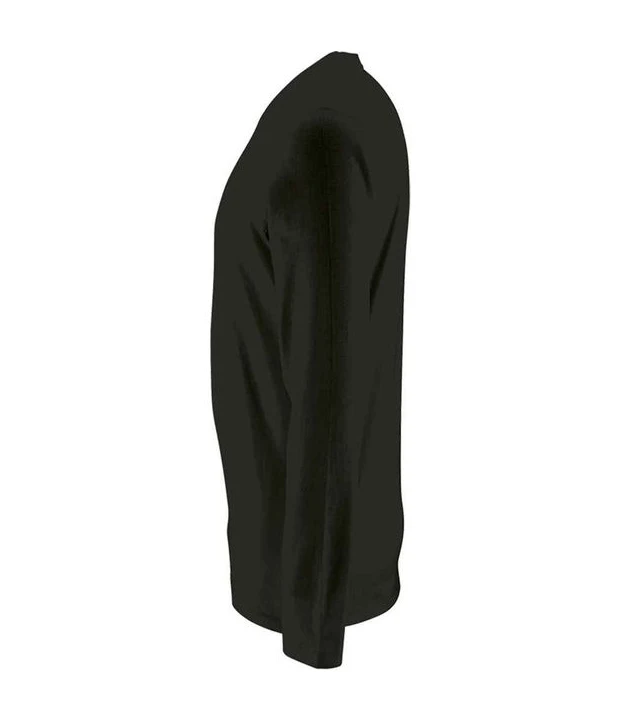
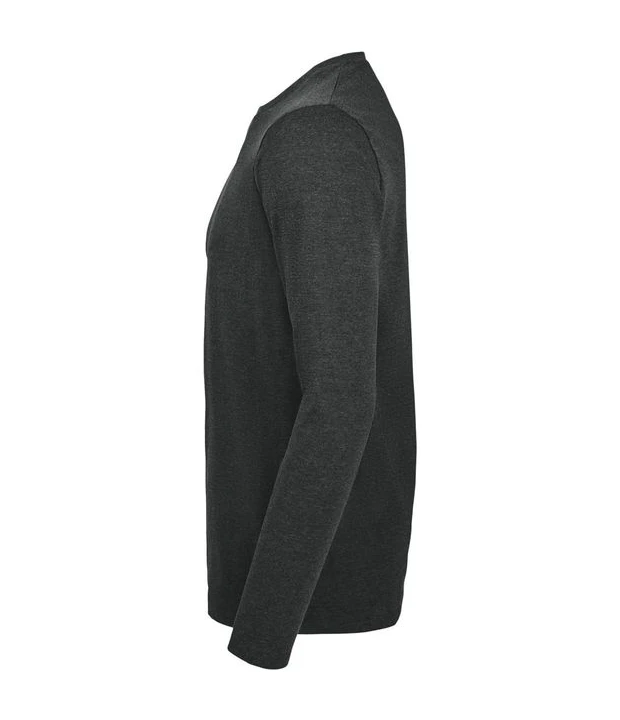
Zwei Fehlzuordnungen behoben, Ursache jeweils belegt
Stedman Clive Crew Neck: blue-midnight zeigte ST9600_BLO.jpg - BLO ist der
Stedman-Code fuer Black Opal. Blue Midnight hat den Code BLM. Beide Farben
kommen jetzt aus der offiziellen Stedman-Mediathek und sind nachweislich
verschiedene Dateien.

SOL'S Imperial LSL: charcoal-melange war in directJobs2.json auf die
Deep-Black-Dateien (DBK) gemappt. Beide kommen jetzt aus der SOL'S-Mediathek
(Scene7), Farbcode 348 = Charcoal Melange, 309 = Deep Black - belegt ueber
textil-grosshandel.eu, das dieselbe Aufnahme selbst 'Charcoal-Melange' nennt.

Nebenbefund geprueft und entkraeftet: Ein alter Importlauf (directJobs_stedman)
hatte fuer den Clive Crew Neck ST5620-URLs (Sweatshirt statt T-Shirt). Der
Kontaktbogen zeigt, dass alle 13 Farben inzwischen das richtige ST9600 fuehren -
die spaeteren Laeufe haben die falschen Dateien vollstaendig ueberschrieben.

Offen bleibt ein Fall (B&C Inspire E150: navy vs navy-blue), Klaerung laeuft.

Changed region(s): [[0.3065, 0.0611, 0.6742, 0.9472], [0.3984, 0.5194, 0.429, 0.6111]]

diff --git a/src/config/printAreaData.generated.ts b/src/config/printAreaData.generated.ts
@@ -709,8 +709,8 @@ export const PRINT_AREA_DATA: Record<string, Partial<Record<PrintView, Generated
     sleeve_left: { x0: 39.4, y0: 8.1, x1: 60.3, y1: 91.9, imgW: 620, imgH: 720, maxWidthCm: 8.9, maxHeightCm: 10, boxWidthCm: 15.9, boxHeightCm: 73.9, startXCm: 8.4, startYCm: 11.9, garmentWidthCm: 10.9, garmentHeightCm: 10 },
   },
   'sols-men-s-long-sleeve-t-shirt-imperial': {
-    front: { x0: 29.1, y0: 16.5, x1: 70.9, y1: 72.8, imgW: 620, imgH: 720, maxWidthCm: 30, maxHeightCm: 47, boxWidthCm: 30, boxHeightCm: 47, garmentWidthCm: 49, garmentHeightCm: 61 },
-    back: { x0: 29.5, y0: 16.5, x1: 71.2, y1: 72.8, imgW: 620, imgH: 720, maxWidthCm: 30, maxHeightCm: 47, boxWidthCm: 30, boxHeightCm: 47, garmentWidthCm: 49, garmentHeightCm: 61 },
+    front: { x0: 29.1, y0: 16.5, x1: 70.8, y1: 72.8, imgW: 620, imgH: 720, maxWidthCm: 30, maxHeightCm: 47, boxWidthCm: 30, boxHeightCm: 47, garmentWidthCm: 49, garmentHeightCm: 61 },
+    back: { x0: 29.6, y0: 16.5, x1: 71.3, y1: 72.8, imgW: 620, imgH: 720, maxWidthCm: 30, maxHeightCm: 47, boxWidthCm: 30, boxHeightCm: 47, garmentWidthCm: 49, garmentHeightCm: 61 },
     sleeve_left: { x0: 35.4, y0: 8.1, x1: 64.9, y1: 91.9, imgW: 620, imgH: 720, maxWidthCm: 8.9, maxHeightCm: 10, boxWidthCm: 21.2, boxHeightCm: 69.9, startXCm: 10.5, startYCm: 11.2, garmentWidthCm: 10.9, garmentHeightCm: 10 },
   },
   'neutral-ladies-long-sleeve-t-shirt': {

diff --git a/src/config/farbdubletten.generated.ts b/src/config/farbdubletten.generated.ts
@@ -21,6 +21,4 @@ export const FARBDUBLETTEN: Record<string, readonly string[]> = {
  */
 export const FARBGLEICHHEIT_OFFEN: readonly string[] = [
   'bundc-inspire-e150-t-shirt: navy-blue == navy',
-  'stedman-clive-crew-neck: black-opal == blue-midnight',
-  'sols-men-s-long-sleeve-t-shirt-imperial: charcoal-melange == deep-black',
 ];
